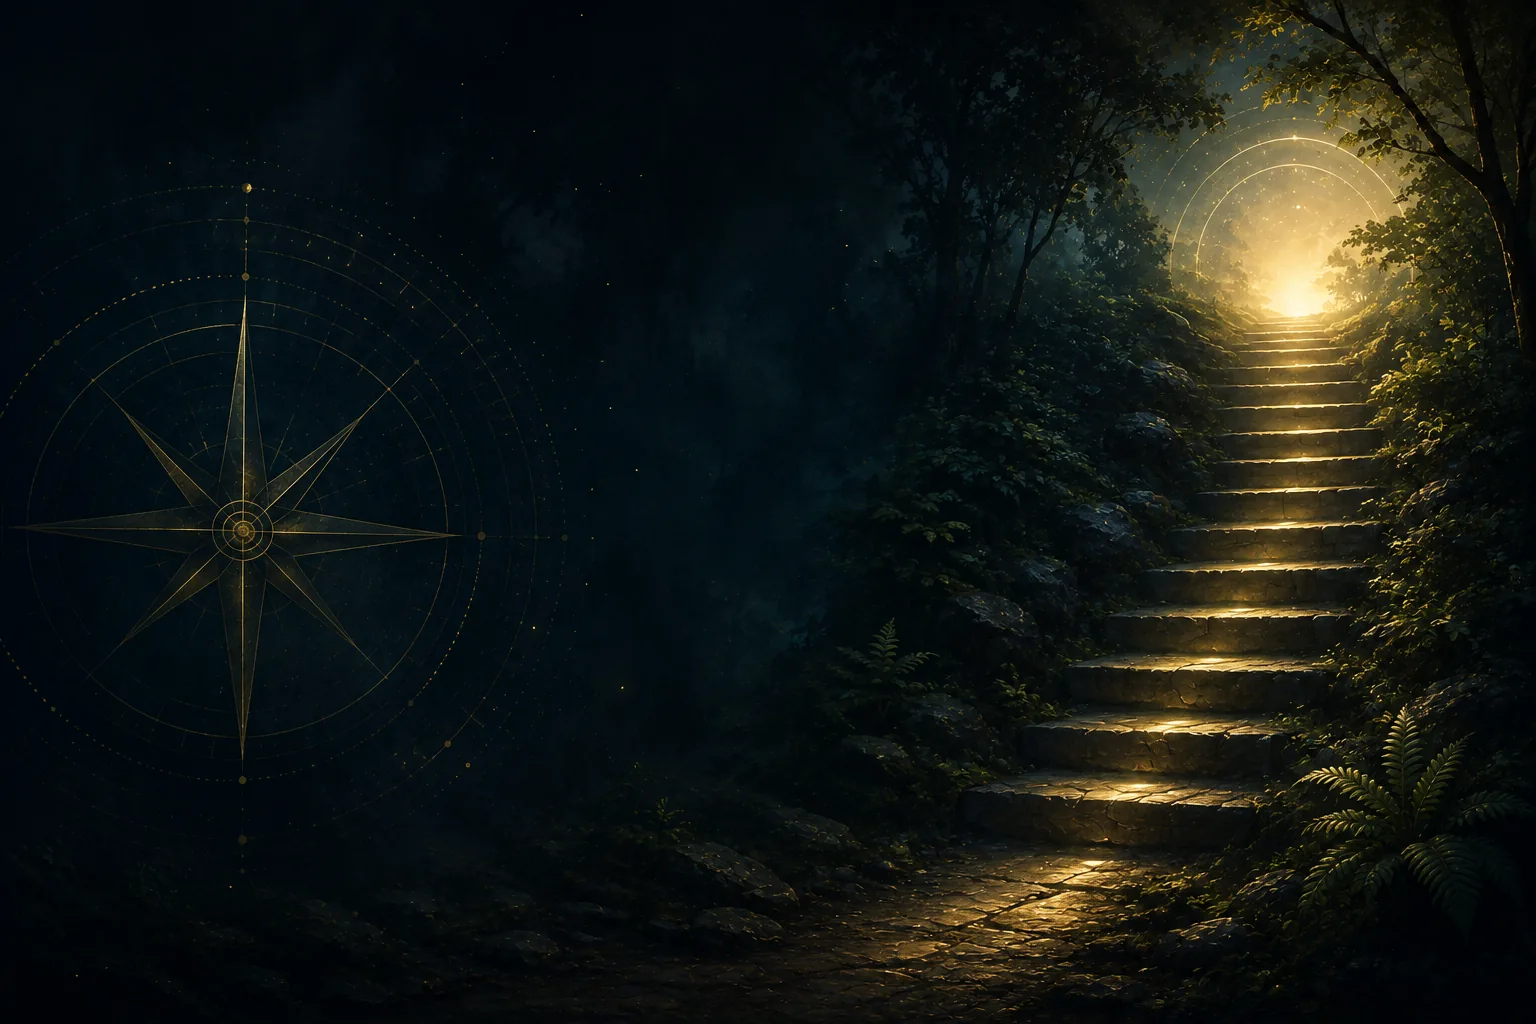
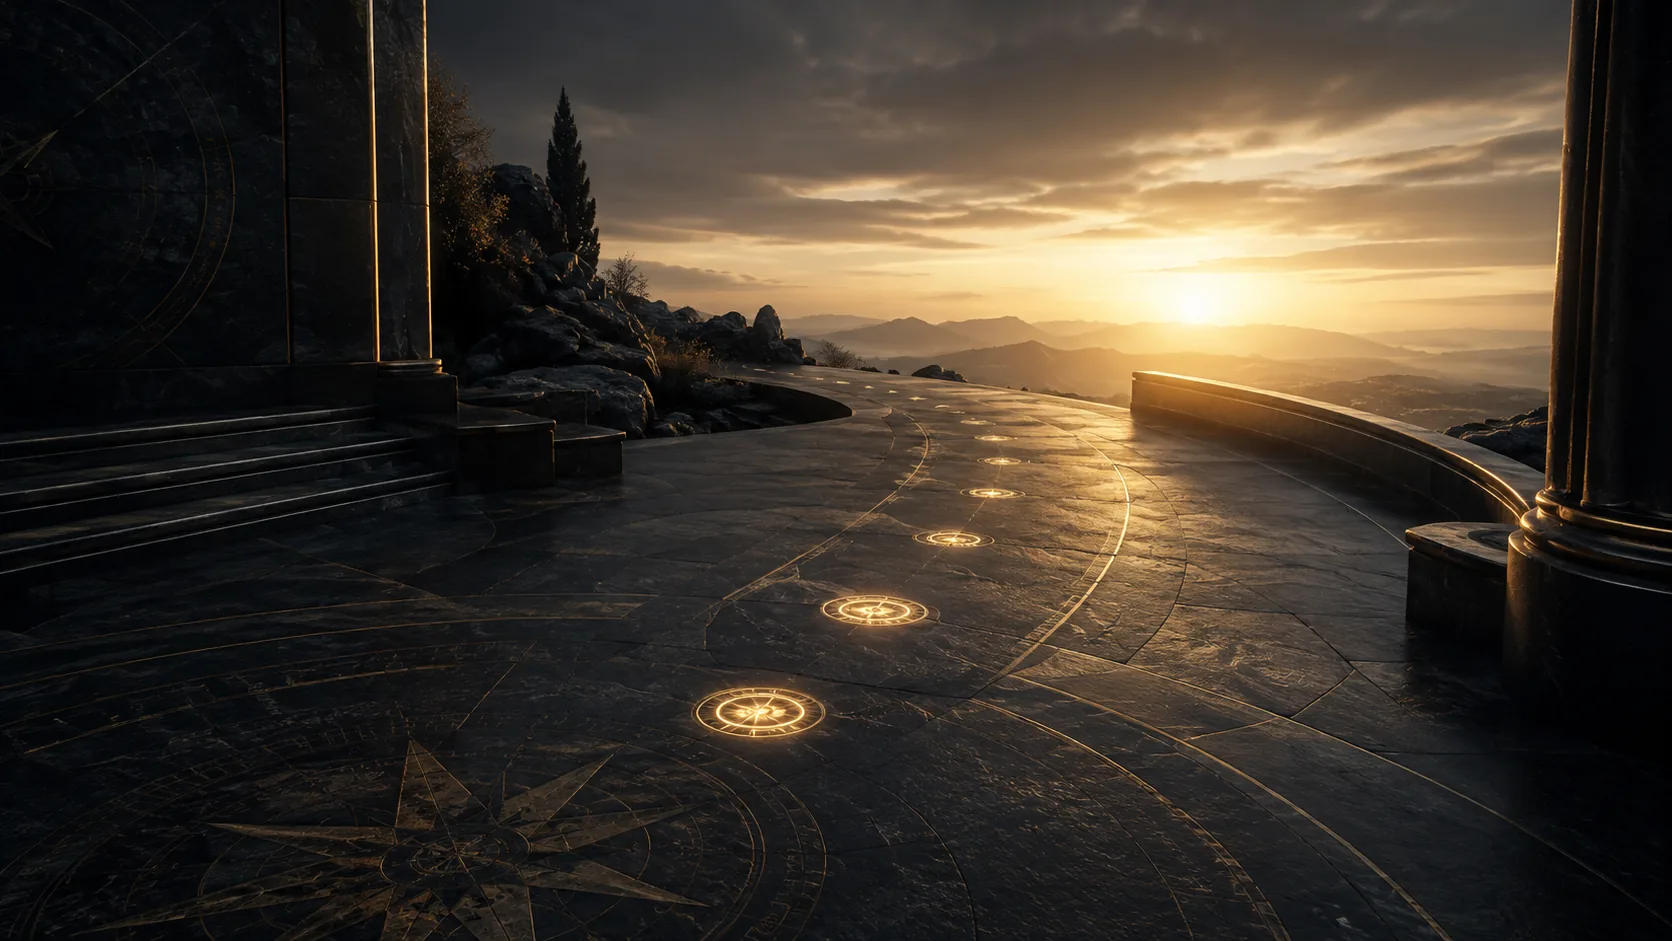
Bewusstseinstest: Titelbild getauscht (Kompass-Plaza), volles Bildband auf Mobil & Desktop (#280)
* Bewusstseinstest: Titelbild getauscht (Kompass-Plaza im Sonnenuntergang)

- public/hero-bewusstseinstest.webp neu aus PNG erzeugt (1672x941, 16:9, WebP q82)
- page.tsx: mobiler Bildband aspect-[3/2] -> aspect-[16/9] (neues Motiv unbeschnitten)
- AENDERUNGEN.md aktualisiert

Claude-Session: https://claude.ai/code/session_0165yvwjexhL4Grb9bbkZfxU

* Bewusstseinstest-Hero: auch auf Desktop volles Bildband (statt gedimmter Hintergrund)

- page.tsx: Bild auf allen Breakpoints als volles Band im Fluss (aspect-[16/9],
  volle Deckkraft), Text darunter auf Navy
- Desktop-Sonderbehandlung entfernt (lg:absolute, lg:opacity-55, Navy-Schleier,
  lg:min-h/justify-center); Unterkanten-Fade jetzt auf allen Breakpoints
- AENDERUNGEN.md aktualisiert

Claude-Session: https://claude.ai/code/session_0165yvwjexhL4Grb9bbkZfxU

---------

diff --git a/src/app/bewusstseinstest/page.tsx b/src/app/bewusstseinstest/page.tsx
@@ -18,12 +18,12 @@ export default function BewusstseinstestPage() {
   return (
     <>
       {/* Kopf */}
-      <section className="on-dark grain relative flex flex-col overflow-hidden bg-navy-900 text-cream lg:min-h-[34rem] lg:justify-center">
-        {/* Bild – Kompass & Treppe ins Licht. Bis lg als eigenes Band im Fluss
-            (volle Höhe, unbeschnitten) wie auf der Mitgliedschaftsseite, damit
-            auf schmalen Displays das ganze Motiv sichtbar bleibt; ab lg liegt es
-            wie bisher dezent als Hintergrund hinter dem Text. */}
-        <div className="relative w-full shrink-0 aspect-[3/2] lg:absolute lg:inset-0 lg:z-0 lg:aspect-auto">
+      <section className="on-dark grain relative flex flex-col overflow-hidden bg-navy-900 text-cream">
+        {/* Bild – Kompass & Weg ins Licht. Auf ALLEN Breakpoints als eigenes
+            Band im Fluss (volle Höhe, unbeschnitten, volle Deckkraft), Text
+            darunter auf reinem Navy – auch auf Desktop volles Bildband statt
+            gedimmtem Hintergrund. */}
+        <div className="relative w-full shrink-0 aspect-[16/9]">
           <Image
             src={heroBild}
             alt=""
@@ -31,13 +31,13 @@ export default function BewusstseinstestPage() {
             fill
             priority
             sizes="100vw"
-            className="pointer-events-none z-0 object-cover object-center lg:opacity-55"
+            className="pointer-events-none z-0 object-cover object-center"
           />
-          {/* Unterkante mobil ins Navy blenden, damit Bildband und Textblock
-              weich ineinander übergehen statt hart abzusetzen. */}
+          {/* Unterkante ins Navy blenden, damit Bildband und Textblock weich
+              ineinander übergehen statt hart abzusetzen. */}
           <div
             aria-hidden
-            className="pointer-events-none absolute inset-x-0 bottom-0 h-1/3 bg-gradient-to-t from-navy-900 to-transparent lg:hidden"
+            className="pointer-events-none absolute inset-x-0 bottom-0 h-1/3 bg-gradient-to-t from-navy-900 to-transparent"
           />
         </div>
         {/* Glow (hält den Farbton konsistent) */}
@@ -46,16 +46,7 @@ export default function BewusstseinstestPage() {
           className="pointer-events-none absolute inset-0 z-0"
           style={{ background: HERO_GLOW }}
         />
-        {/* Navy-Schleier für Lesbarkeit über dem Bild – erst ab lg, darunter
-            steht der Text ohnehin auf reinem Navy unter dem Band. */}
-        <div
-          aria-hidden
-          className="pointer-events-none absolute inset-0 z-0 hidden lg:block"
-          style={{
-            background: `linear-gradient(to right, color-mix(in oklab, var(--color-navy-900) 80%, transparent), color-mix(in oklab, var(--color-navy-900) 45%, transparent) 55%, color-mix(in oklab, var(--color-navy-900) 72%, transparent))`,
-          }}
-        />
-        <Container size="narrow" className="relative z-10 flex flex-col items-center gap-5 pb-14 pt-8 text-center sm:pb-16 sm:pt-10 lg:py-24">
+        <Container size="narrow" className="relative z-10 flex flex-col items-center gap-5 pb-14 pt-8 text-center sm:pb-16 sm:pt-10 lg:pb-20 lg:pt-12">
           <Eyebrow>Bewusstseinstest</Eyebrow>
           <h1 className="text-[1.9rem] font-medium leading-[1.1] text-cream sm:[hyphens:none] sm:[overflow-wrap:normal] sm:text-5xl">
             Wo findest du dich <em className="accent">gerade</em>?

diff --git a/docs/AENDERUNGEN.md b/docs/AENDERUNGEN.md
@@ -5,6 +5,35 @@ aktuelle Stand nachvollziehbar ist. Neueste Einträge oben.
 
 ---
 
+## 2026-09-03 – Bewusstseinstest: Titelbild getauscht (Kompass-Plaza im Sonnenuntergang)
+
+Das Titelbild der Seite `/bewusstseinstest` wurde gegen ein neues Motiv
+getauscht: eine dunkle Stein-Plaza mit **Kompass-Intarsie** und leuchtenden
+Rune-Kreisen, die als Weg auf einen **Sonnenuntergang über Bergen** zulaufen –
+passt thematisch zum bisherigen „Kompass & Weg ins Licht".
+
+**Änderungen**
+
+- `public/hero-bewusstseinstest.webp` **neu erzeugt** aus dem hochgeladenen PNG
+  (1672×941, Seitenverhältnis 16:9). WebP Qualität 82 (~127 KB), unter gleichem
+  Namen ersetzt.
+- `src/app/bewusstseinstest/page.tsx`: Hero-Sektion umgebaut – das Bild liegt
+  jetzt auf **allen** Breakpoints (auch Desktop) als eigenes **volles Bildband**
+  im Fluss (`aspect-[16/9]`, volle Deckkraft, unbeschnitten), der Text steht
+  darunter auf reinem Navy.
+  - Zuvor lag das Bild ab `lg` **gedimmt (55 %) als Hintergrund hinter dem Text**
+    (`lg:absolute inset-0`, `lg:opacity-55`) mit Lesbarkeits-Schleier. Diese
+    Desktop-Sonderbehandlung wurde entfernt (auf Wunsch: „volles Bildband wie
+    Mobil"): kein `lg:absolute`, kein `lg:opacity-55`, kein Navy-Schleier mehr,
+    `lg:min-h-[34rem] lg:justify-center` entfernt.
+  - Mobiler Band von `aspect-[3/2]` (altes 3:2-Bild) auf `aspect-[16/9]`
+    (neues Motiv) umgestellt; der Unterkanten-Verlauf ins Navy gilt jetzt auf
+    allen Breakpoints.
+
+Das alte 3:2-Bild bleibt über die Git-Historie wiederherstellbar.
+
+---
+
 ## 2026-09-03 – Öffentlicher Header: Logo bricht nicht mehr um (Desktop)
 
 Im **öffentlichen** Header (nicht im Mitgliederbereich) brach die Wortmarke auf
